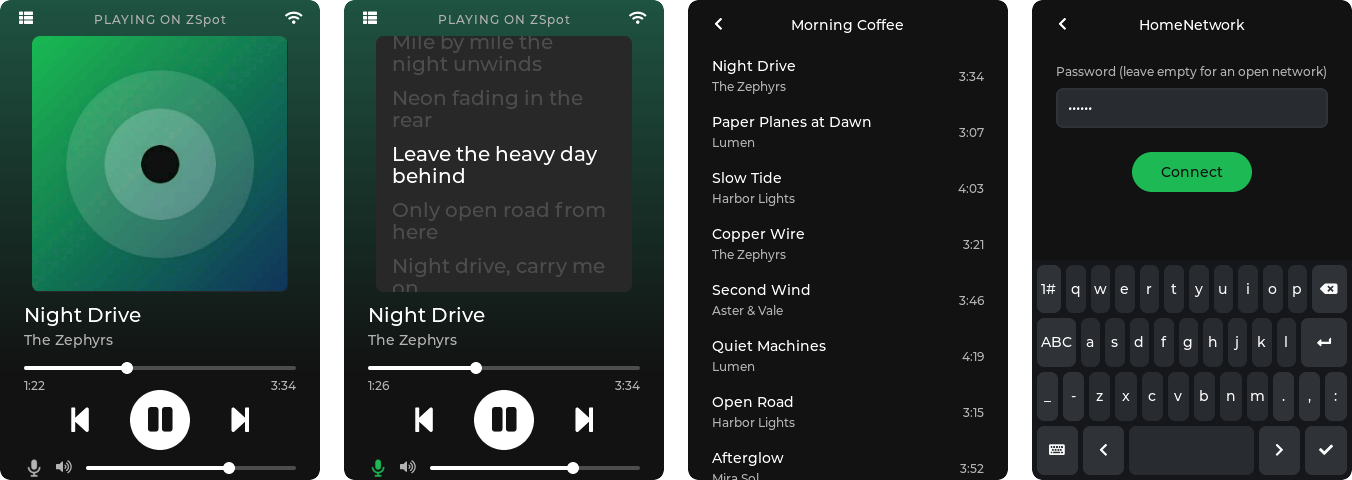
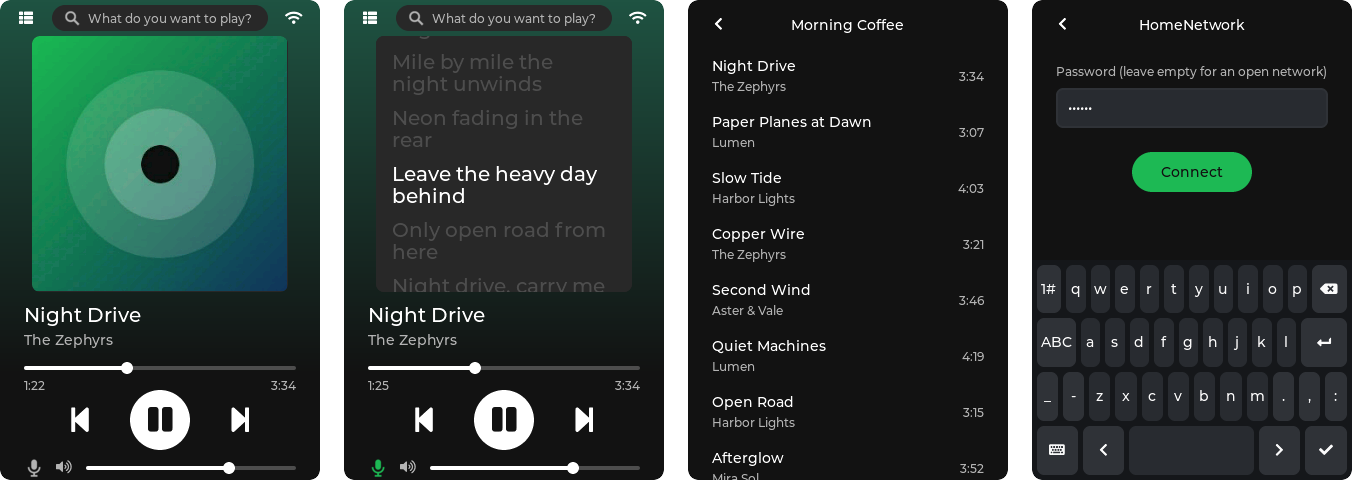
doc: describe the search and update the screenshot

Changed region(s): [[0.2796, 0.2812, 0.4349, 0.625], [0.2796, 0.0, 0.466, 0.2812], [0.0311, 0.0, 0.2175, 0.0625]]

diff --git a/README.md b/README.md
@@ -19,6 +19,7 @@ speaker with a screen of its own:
 - Shows up as a device in the Spotify app and plays through an I2S DAC.
 - Now Playing screen with cover art, progress, seeking, transport and volume
   controls.
+- Search: type a song or artist on the screen and play a hit.
 - Your Library: browse Liked Songs and playlists on the device and start a
   track from there.
 - Lyrics that follow the music.
@@ -267,13 +268,17 @@ line highlighted; when only plain lyrics exist they are shown as text. The
 lyrics come from [LRCLIB](https://lrclib.net), a free service that needs no
 account, looked up by title, artist and duration while the lyrics are shown.
 
+The search bar at the top asks for a song or artist with the on-screen
+keyboard and lists the matching songs; tapping one plays it, followed by the
+hits after it.
+
 The list button in the top left corner opens "Your Library": Liked Songs
 and the user's playlists (up to 30 rows per list). Picking one lists its
 tracks, and tapping a track starts playing it on the device, within that
-playlist. Albums, search and paging beyond the first 30 entries are not
-implemented.
+playlist. Albums and paging beyond the first 30 entries are not implemented.
 
-The library view uses the Spotify Web API and needs a one-time setup:
+The library view and the search use the Spotify Web API and need a one-time
+setup:
 
 1. Create an application at <https://developer.spotify.com/dashboard> with
    the Web API enabled and the redirect URI `http://127.0.0.1:8888/callback`.
@@ -286,7 +291,8 @@ The library view uses the Spotify Web API and needs a one-time setup:
    `CONFIG_ZSPOT_WEB_*` options default to them. They give access to
    the account, so they stay in the environment and out of version control.
 
-Without them the library view only reports that it is not set up.
+Without them the library view and the search only report that they are not
+set up.
 
 - `src/ui.c` builds the screen. The zspot callbacks only queue updates for
   it, and the touch handlers call the playback control API.
@@ -296,7 +302,8 @@ Without them the library view only reports that it is not set up.
   timed lines.
 - `src/library.c` talks to the Spotify Web API on its own thread:
   `/me/playlists`, `/me/tracks` and `/playlists/{id}/items` (or `/tracks`)
-  for the listings, `/me/player/play` to start playback. `src/webapi.c`
+  for the listings, `/search` for the search, `/me/player/play` to start
+  playback. `src/webapi.c`
   authorises the requests with an access token renewed from the refresh
   token, and `src/json_scan.c` picks the few fields needed out of the
   responses.
